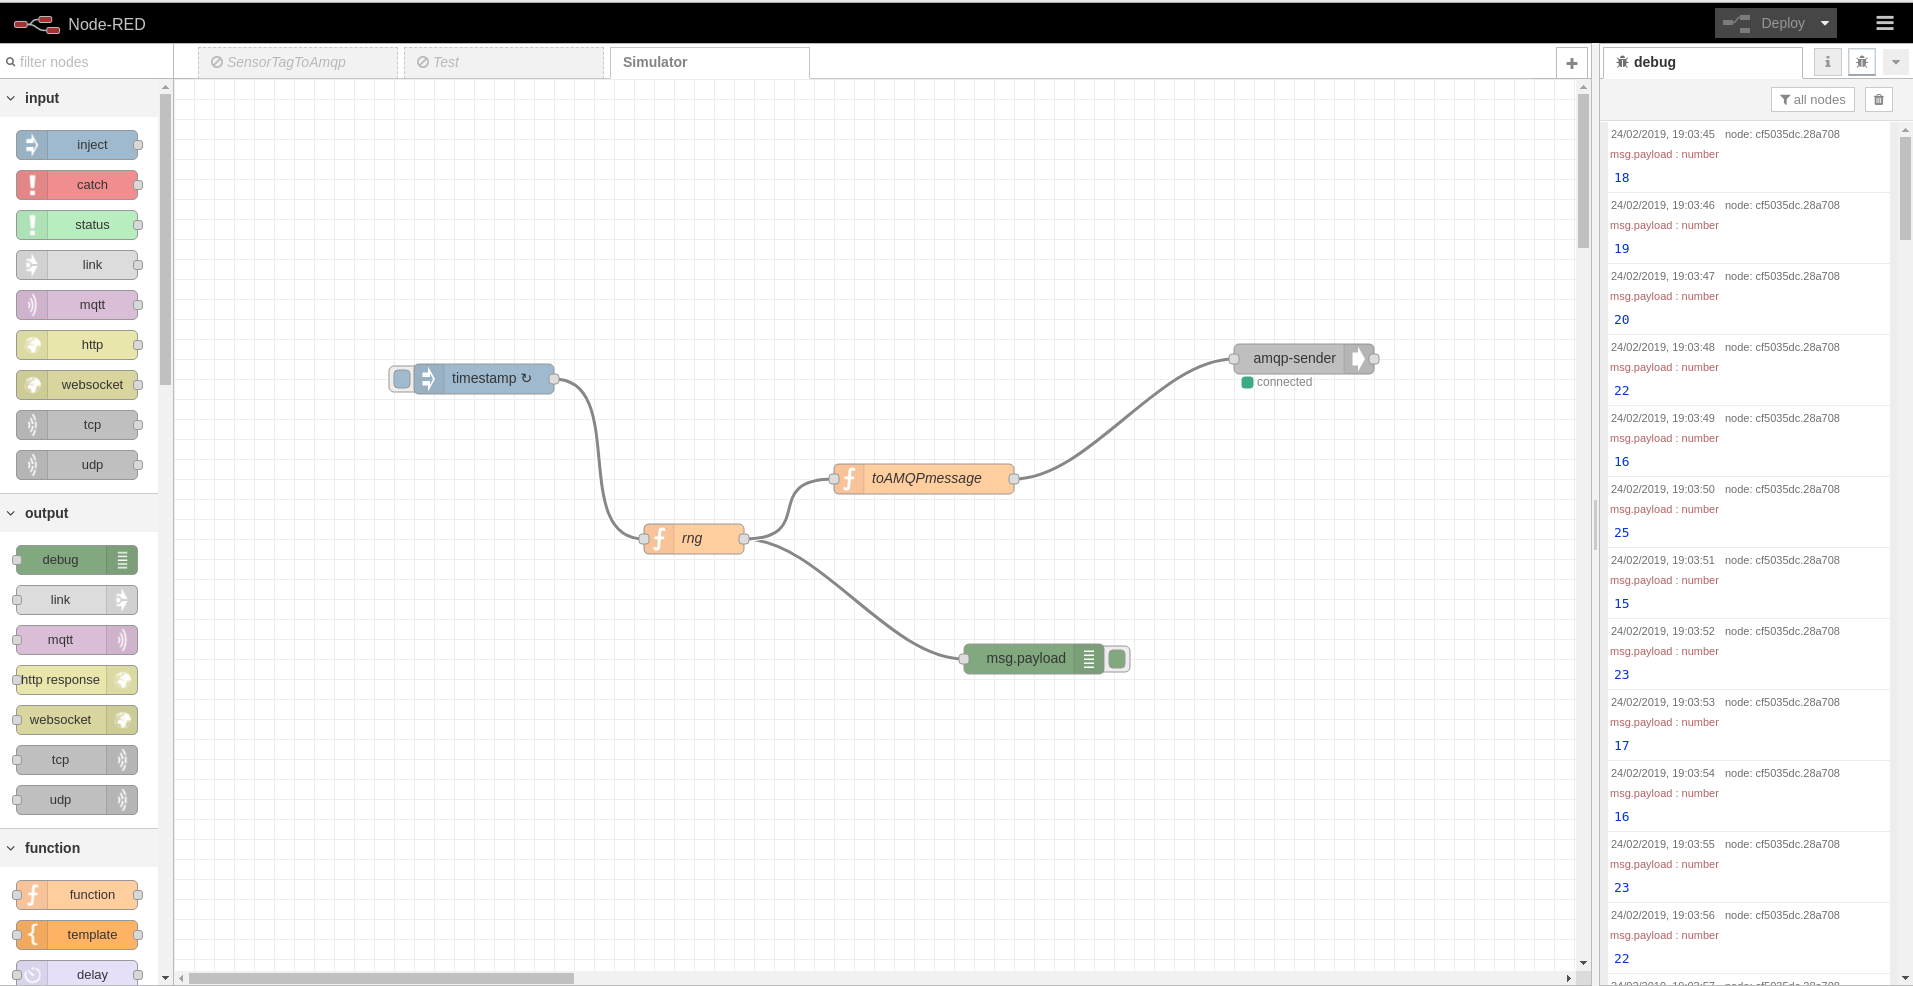
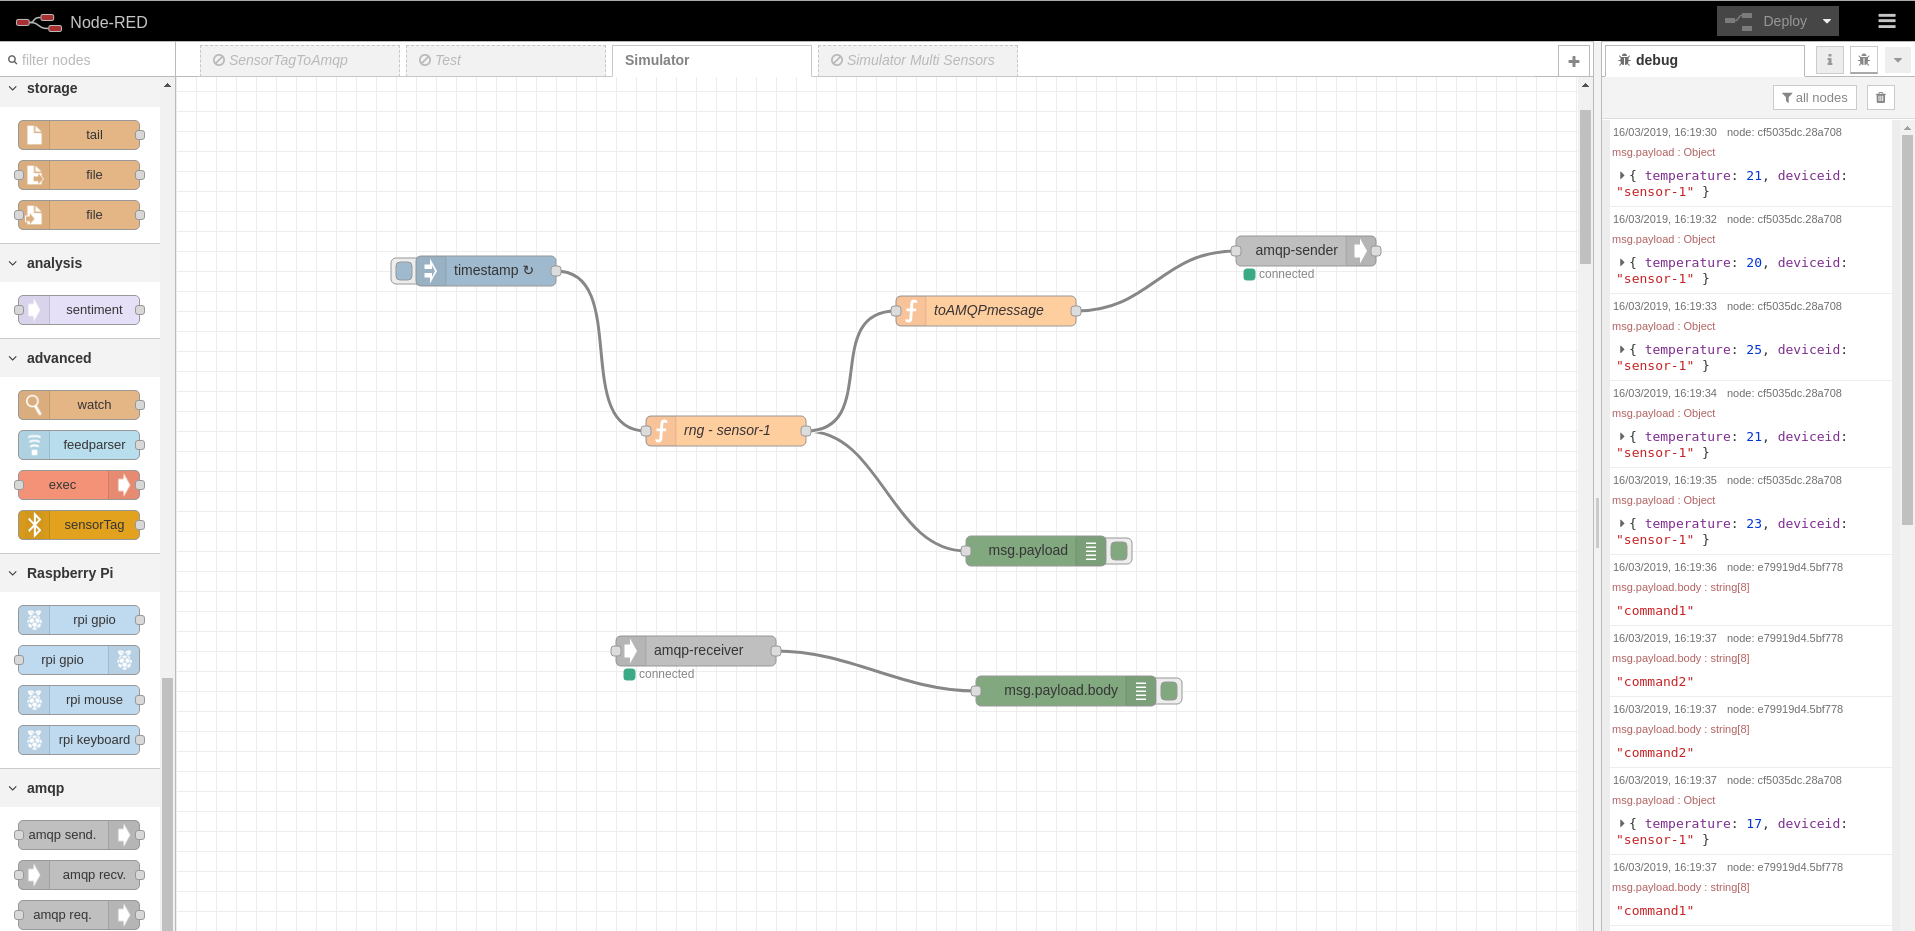
Pictures and steps update

diff --git a/README.md b/README.md
@@ -75,7 +75,7 @@ From its log, you can notice that it is listening on AMQPS (5671) port for getti
 
 ![QDR log](images/qdrouterd-log.png "QDR log")
 
-# Deploy topics, Kafka Streams and consumer applications
+# Deploy topics, Kafka Streams and control applications
 
 This demo uses a couple of topics.
 The first one named `iot-temperature` is used by the device for sending temperature values and by the stream application for getting such values and processing them.
@@ -90,14 +90,15 @@ It's deployed running following command :
 
     oc apply -f https://raw.githubusercontent.com/strimzi/strimzi-lab/master/iot-demo/stream-app/resources/stream-app.yml
 
-The consumer application uses Kafka client in order to get messages from the `iot-temperature-max` topic and showing them in a Web UI.
+The control application uses Kafka client in order to get messages from the `iot-temperature-max` topic and showing them in a Web UI.
+It also uses AMQP 1.0 protocol for sending commands to the IoT gateway to the `control` address.
 It's deployed running following command :
 
-    oc apply -f https://raw.githubusercontent.com/strimzi/strimzi-lab/master/iot-demo/consumer-app/resources/consumer-app.yml
+    oc apply -f control-app/deployment/control-app.yml
 
 A route is provided in order to access the related Web UI.
 
-![Consumer Web UI](images/consumer-web-ui.png "Consumer Web UI")
+![Control Web UI](images/control-web-ui.png "Control Web UI")
 
 # Deploy the Apache Camel AMQP to Kafka
 
@@ -153,7 +154,7 @@ The Node-Red flow, acting as an IoT gateway, gets the temperature values from th
 The Qpid Dispatch Router and the Apache Camale route forward the traffic to Apache Kafka with the Streams API application handling the data.
 The consumer Web UI application will show a dashboard with the temparature value in the last window highlighting a value over the threshold.
 
-![consumer sensotag data](images/consumer-sensotag-data.png "consumer sensotag data")
+![control sensortag data](images/control-sensortag-data.png "control sensortag data")
 
 ## Simulator
 
